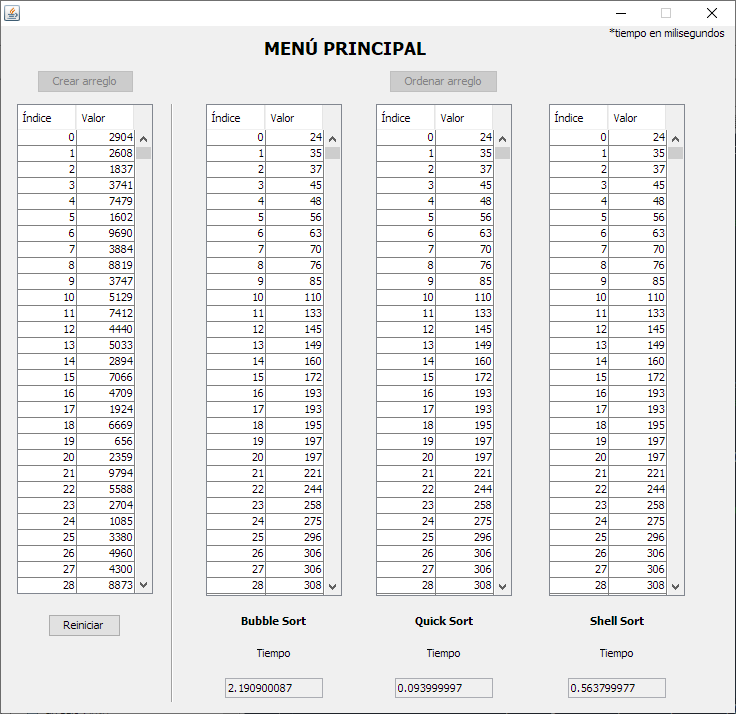
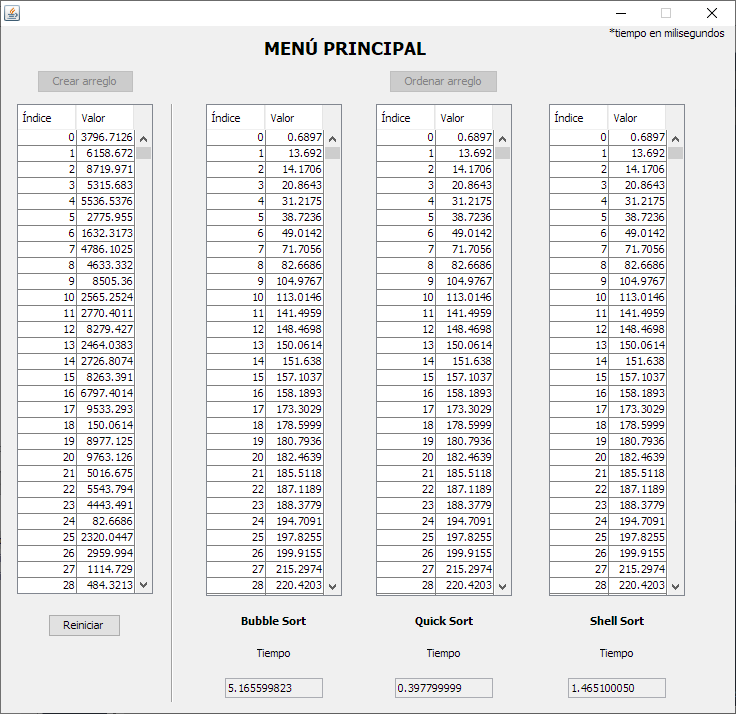
Se cambió de números enteros a números reales

diff --git a/src/estructuras_proyecto1/Funciones.java b/src/estructuras_proyecto1/Funciones.java
@@ -11,7 +11,7 @@ package estructuras_proyecto1;
  */
 public class Funciones {
     
-    public int [] burbuja(int [] arreglo){
+    public float [] burbuja(float [] arreglo){
         int tamanio = arreglo.length;
         //for externo que recorre todo el arreglo
         for (int i = 0; i < tamanio-1; i++){
@@ -23,7 +23,7 @@ public class Funciones {
                     //se guarda el valor en una variable temporal
                     //se cambian los valores (el valor siguiente será el actual)
                     //y el que era el valor sigiente se le pasa la variable temporal
-                    int temp = arreglo[j];
+                    float temp = arreglo[j];
                     arreglo[j] = arreglo[j+1];
                     arreglo[j+1] = temp;
                 }
@@ -37,7 +37,7 @@ public class Funciones {
     }
     
     //comienza a ordenar de forma recursiva
-    public int [] quickSort(int [] arreglo, int bajo, int alto){
+    public float [] quickSort(float [] arreglo, int bajo, int alto){
          if (bajo < alto) { 
             //obtiene el pivote para comenzar a ordenar
             int pivote = particion(arreglo, bajo, alto); 
@@ -50,30 +50,31 @@ public class Funciones {
          return arreglo;
     }
     
-    public int particion(int[] arreglo, int bajo, int alto){
-        int pivote = arreglo[alto];  
+    public int particion(float[] arreglo, int bajo, int alto){
+        float pivote = arreglo[alto];  
         int i = (bajo-1); // índice del elemento más bajo  
         for (int j=bajo; j<alto; j++) { 
             // verifica que el elemento sea menor o igual al pivote 
             if (arreglo[j] <= pivote) { 
                 i++; 
                 // cambia arreglo[i] por arreglo[j] 
-                int temp = arreglo[i]; 
+                float temp = arreglo[i]; 
                 arreglo[i] = arreglo[j]; 
                 arreglo[j] = temp; 
             } 
         } 
    
         // cambia arreglo[i+1] y arreglo[alto] (o pivote) 
-        int temp = arreglo[i+1]; 
+        float temp = arreglo[i+1]; 
         arreglo[i+1] = arreglo[alto]; 
         arreglo[alto] = temp; 
    
         return i+1; 
     }
     
-    public int [] shellSort(int [] arreglo){
-        int salto, aux, i;
+    public float [] shellSort(float [] arreglo){
+        float aux;
+        int  salto, i;
         boolean cambios;
   
         for (salto = arreglo.length / 2; salto != 0; salto /= 2) {

diff --git a/src/estructuras_proyecto1/Principal.java b/src/estructuras_proyecto1/Principal.java
@@ -15,7 +15,7 @@ import javax.swing.table.DefaultTableModel;
 public class Principal extends javax.swing.JFrame {
 
     //arreglo original con los datos desordenados
-    int [] arreglo = new int [1000];
+    float [] arreglo = new float [1000];
     
     public Principal() {
         initComponents();
@@ -343,8 +343,9 @@ public class Principal extends javax.swing.JFrame {
         
         //se genera el arreglo con números random del 0 al 10000
         for(int i=0; i<arreglo.length; i++){
-            int valor = rnd.nextInt(10001);
-            arreglo[i] = valor;
+            float valor = rnd.nextFloat() * 10001;
+            String valorFormateado = String.format("%.4f", valor);
+            arreglo[i] = Float.parseFloat(valorFormateado);
 
             dtm.addRow(new Object[]{i, arreglo[i]});
         }
@@ -367,7 +368,7 @@ public class Principal extends javax.swing.JFrame {
         //MÉTODO DE BURBUJA
         inicio = System.nanoTime();
         //se le pasa por parámetro un clon de arreglo para que no ordene el arreglo original
-        int[] burbuja = fn.burbuja((int[]) arreglo.clone());
+        float[] burbuja = fn.burbuja((float[]) arreglo.clone());
         tiempoTotal = System.nanoTime()-inicio;
         total = tiempoTotal / 1000000.0f;
         txtBurbuja.setText(String.format("%.9f", total));
@@ -384,7 +385,7 @@ public class Principal extends javax.swing.JFrame {
         inicio = System.nanoTime();
         //se llama al método que ordena
         //se le pasan los parámetros arreglo, índice más bajo e índice más alto.
-        int[] quick = fn.quickSort((int[])arreglo.clone(), 0, (arreglo.length-1));
+        float [] quick = fn.quickSort((float[])arreglo.clone(), 0, (arreglo.length-1));
         tiempoTotal = System.nanoTime()-inicio;
         total = tiempoTotal / 1000000.0f;
         txtQuick.setText(String.format("%.9f", total));
@@ -398,7 +399,7 @@ public class Principal extends javax.swing.JFrame {
         
         //MÉTODO SHELLSORT
         inicio = System.nanoTime();
-        int[] shell = fn.shellSort((int[])arreglo.clone());
+        float[] shell = fn.shellSort((float[])arreglo.clone());
         tiempoTotal = System.nanoTime()-inicio;
         total = tiempoTotal / 1000000.0f;
         txtShell.setText(String.format("%.9f", total));

diff --git a/README.md b/README.md
@@ -1,6 +1,6 @@
 # Métodos de ordenación en Java
 
-Este programa ordena un arreglo de 1000 (mil) posiciones con números aleatorios entre el 0 al 10.000 (diez mil).
+Este programa ordena un arreglo de 1000 (mil) posiciones con números REALES aleatorios entre el 0 al 10.000 (diez mil).
 
 ## Métodos de ordenación utilizados
 
